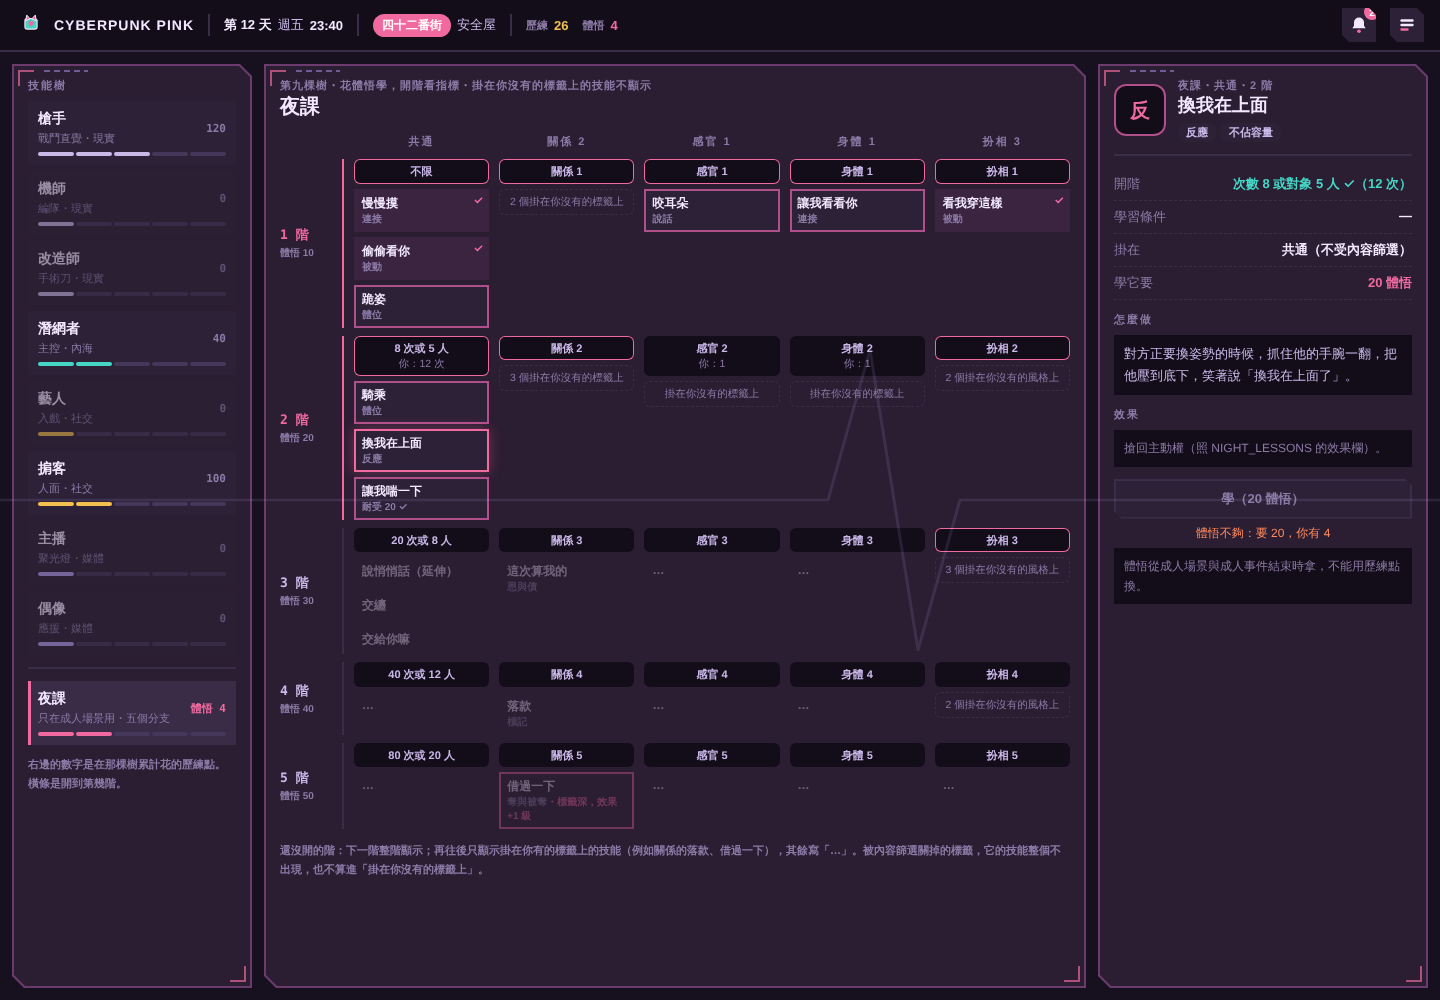
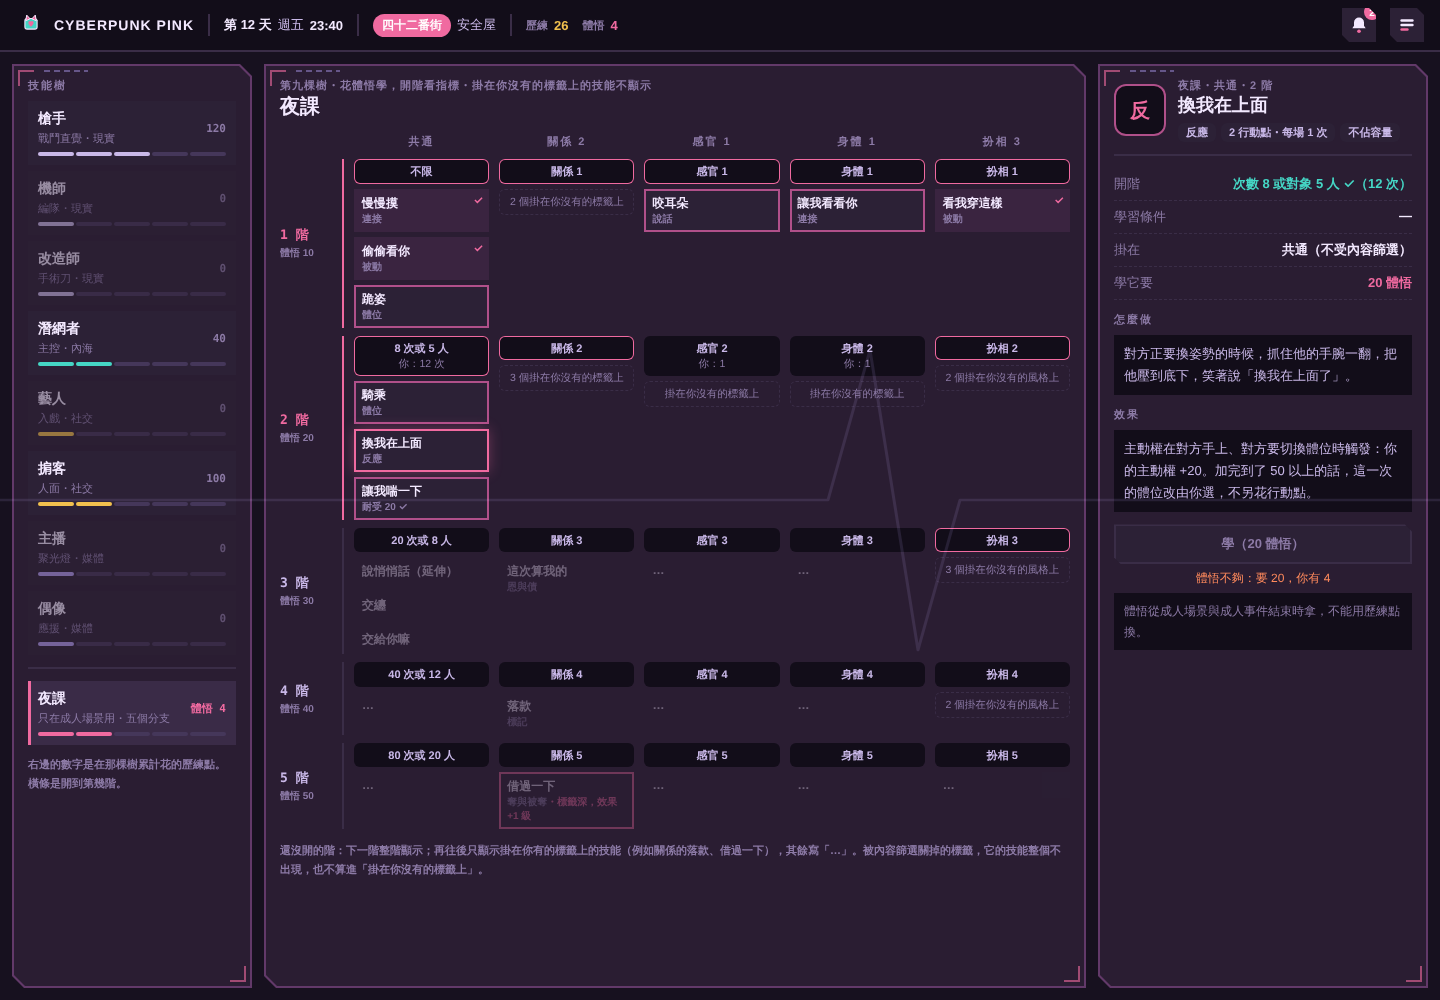
Skill tree mockup: night lesson detail uses the skill's actual effect
Claude-Session: https://claude.ai/code/session_0124r2xsQFC3dhqq7LTcHpFW

Changed region(s): [[0.75, 0.434, 1.0, 0.651], [0.8438, 0.124, 0.9062, 0.155], [0.9375, 0.124, 0.9688, 0.155]]

diff --git a/docs/mockups/skill-tree.html b/docs/mockups/skill-tree.html
@@ -415,7 +415,7 @@ body>*:not(.ecg):not(.fxl){position:relative;z-index:1}
       <div class="kv"><span>洗掉</span><b>調校診所，退回全部歷練點</b></div>
     </div>
     <div id="dn" style="display:none">
-      <div class="dh"><div class="bigic">反</div><div><div class="k">夜課・共通・2 階</div><h3>換我在上面</h3><div class="chips"><span class="tag">反應</span><span class="tag">不佔容量</span></div></div></div>
+      <div class="dh"><div class="bigic">反</div><div><div class="k">夜課・共通・2 階</div><h3>換我在上面</h3><div class="chips"><span class="tag">反應</span><span class="tag">2 行動點・每場 1 次</span><span class="tag">不佔容量</span></div></div></div>
       <div class="hr"></div>
       <div class="kv"><span>開階</span><b class="ok">次數 8 或對象 5 人 ✓（12 次）</b></div>
       <div class="kv"><span>學習條件</span><b>—</b></div>
@@ -424,7 +424,7 @@ body>*:not(.ecg):not(.fxl){position:relative;z-index:1}
       <p class="h" style="margin-top:12px">怎麼做</p>
       <div class="after" style="color:var(--ink-2);font-size:13px">對方正要換姿勢的時候，抓住他的手腕一翻，把他壓到底下，笑著說「換我在上面了」。</div>
       <p class="h" style="margin-top:12px">效果</p>
-      <div class="after">搶回主動權（照 NIGHT_LESSONS 的效果欄）。</div>
+      <div class="after" style="color:var(--ink-2);font-size:13px">主動權在對方手上、對方要切換體位時觸發：你的主動權 +20。加完到了 50 以上的話，這一次的體位改由你選，不另花行動點。</div>
       <div class="learn"><button class="btn dis wide cut-sm">學（20 體悟）</button><div class="why">體悟不夠：要 20，你有 4</div>
       <div class="after">體悟從成人場景與成人事件結束時拿，不能用歷練點換。</div></div>
     </div>
